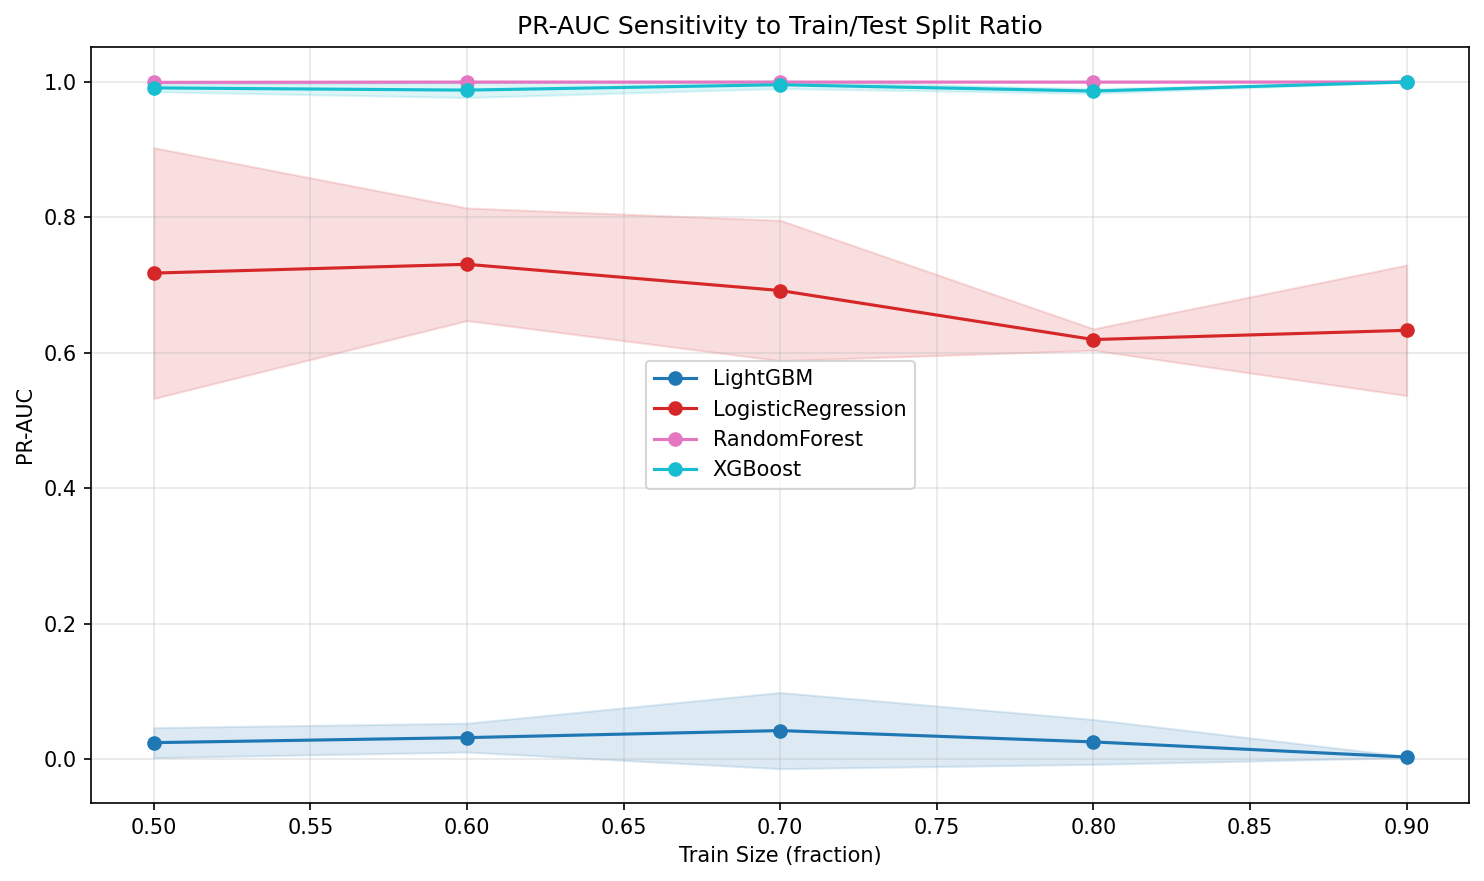
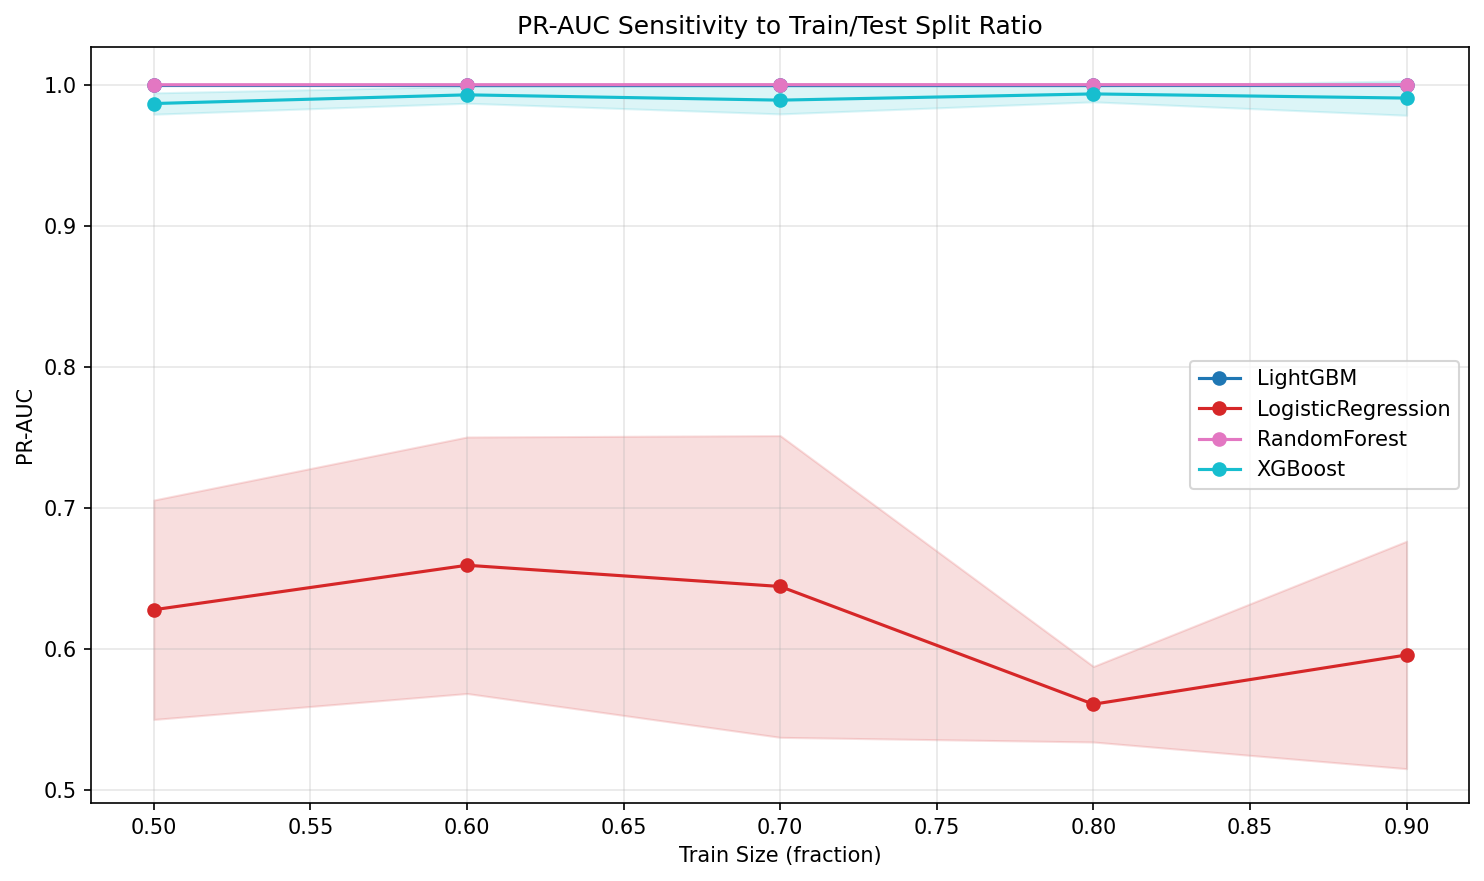
docs(fraud-detection): graficos EN na vitrine + splits tunado
- assets/en/: versoes com titulos/eixos em ingles de cv10, learning curves,
  temporal, cost curve e shap waterfall; README.en.md aponta para elas
- splits_prauc regenerado tunado (LightGBM sai da degeneracao ~0.02 -> ~1.0),
  compartilhado PT/EN (titulo ja em ingles)
- vitrine EN agora 100% com graficos em ingles

diff --git a/fraud-detection/README.en.md b/fraud-detection/README.en.md
@@ -60,16 +60,16 @@ Learning curve with a **fixed test set** (1.59M rows): only the **training** siz
 signal is learnable from very few examples. The 8,213 frauds / 6.3M rows are **massively redundant**,
 with direct impact on retraining cost and latency in production.
 
-![Learning curve — PR-AUC vs number of frauds in training](assets/learning_curve_vs_fraud.png)
+![Learning curve — PR-AUC vs number of frauds in training](assets/en/learning_curve_vs_fraud.png)
 
-![Learning curve — PR-AUC vs training size](assets/learning_curve_pr_auc.png)
+![Learning curve — PR-AUC vs training size](assets/en/learning_curve_pr_auc.png)
 
 ### Robustness — 10-fold cross-validation
 
 10-fold confirms the 5-fold comparison across all four models: **XGBoost 0.9977 ± 0.0021**,
 LightGBM 0.9971 ± 0.0023, Random Forest 0.9962 ± 0.0025, Logistic Regression 0.5510 ± 0.0164.
 
-![10-fold model comparison](assets/cv10_comparison.png)
+![10-fold model comparison](assets/en/cv10_comparison.png)
 
 > GBDT tuning lesson: XGBoost and LightGBM require proper hyperparameters for extreme imbalance.
 > The library defaults (XGBoost 100 trees/lr=0.3; LightGBM `is_unbalance=True`) **destabilize
@@ -82,7 +82,7 @@ LightGBM 0.9971 ± 0.0023, Random Forest 0.9962 ± 0.0025, Logistic Regression 0
 Beyond the random split, I reserved the **last time period** as **validation** — data that
 **never** entered training or testing. Training only on the past and evaluating on the future:
 
-![Temporal generalization](assets/temporal_validation.png)
+![Temporal generalization](assets/en/temporal_validation.png)
 
 - **Fraud is non-stationary:** ~46% of frauds are in the last time decile (train 0.08% vs
   validation 0.33%). Even so, **the signal generalizes** — ROC-AUC ~1.0 in the future.
@@ -100,7 +100,7 @@ cost**: each **false negative** costs the **real value** of the fraud that slipp
 optimal point sits at **recall 99.6% / precision 100%** — the two failure regimes (low threshold =
 drowning in false positives; high = expensive fraud slips through) show at the curve's ends.
 
-![Operational cost curve](assets/cost_curve.png)
+![Operational cost curve](assets/en/cost_curve.png)
 
 ### Why PR-AUC and not Accuracy?
 
@@ -196,7 +196,7 @@ know *why* an alert fired). E.g.: a transaction that **emptied a R$1.15M account
 fraud with f(x)=1.0, and SHAP shows exactly which signals weighed in. SHAP's additivity property
 was validated by test (sum of SHAP + base = probability, error ~1e-14).
 
-![Individual explanation (SHAP waterfall)](assets/shap_waterfall.png)
+![Individual explanation (SHAP waterfall)](assets/en/shap_waterfall.png)
 
 ---
 
